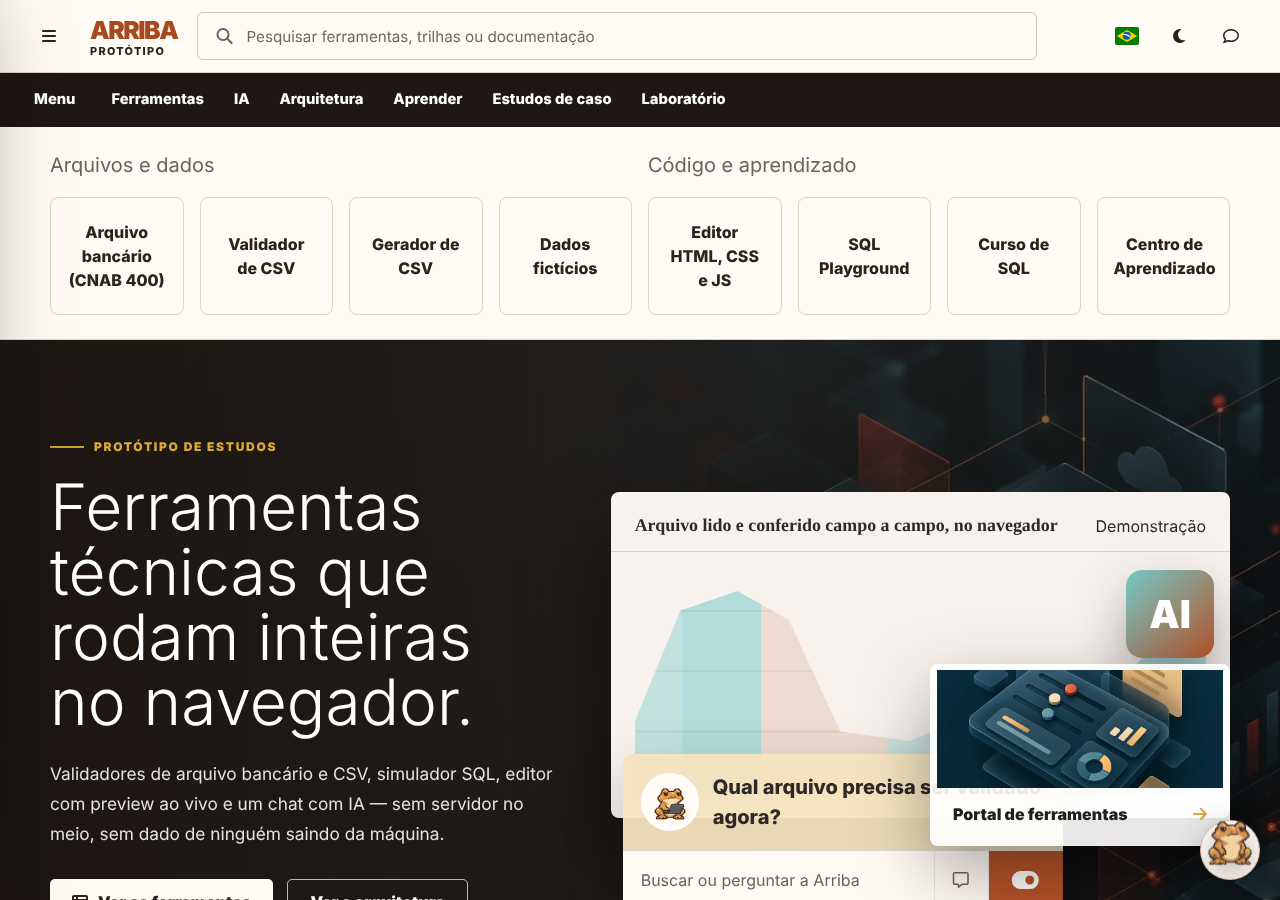
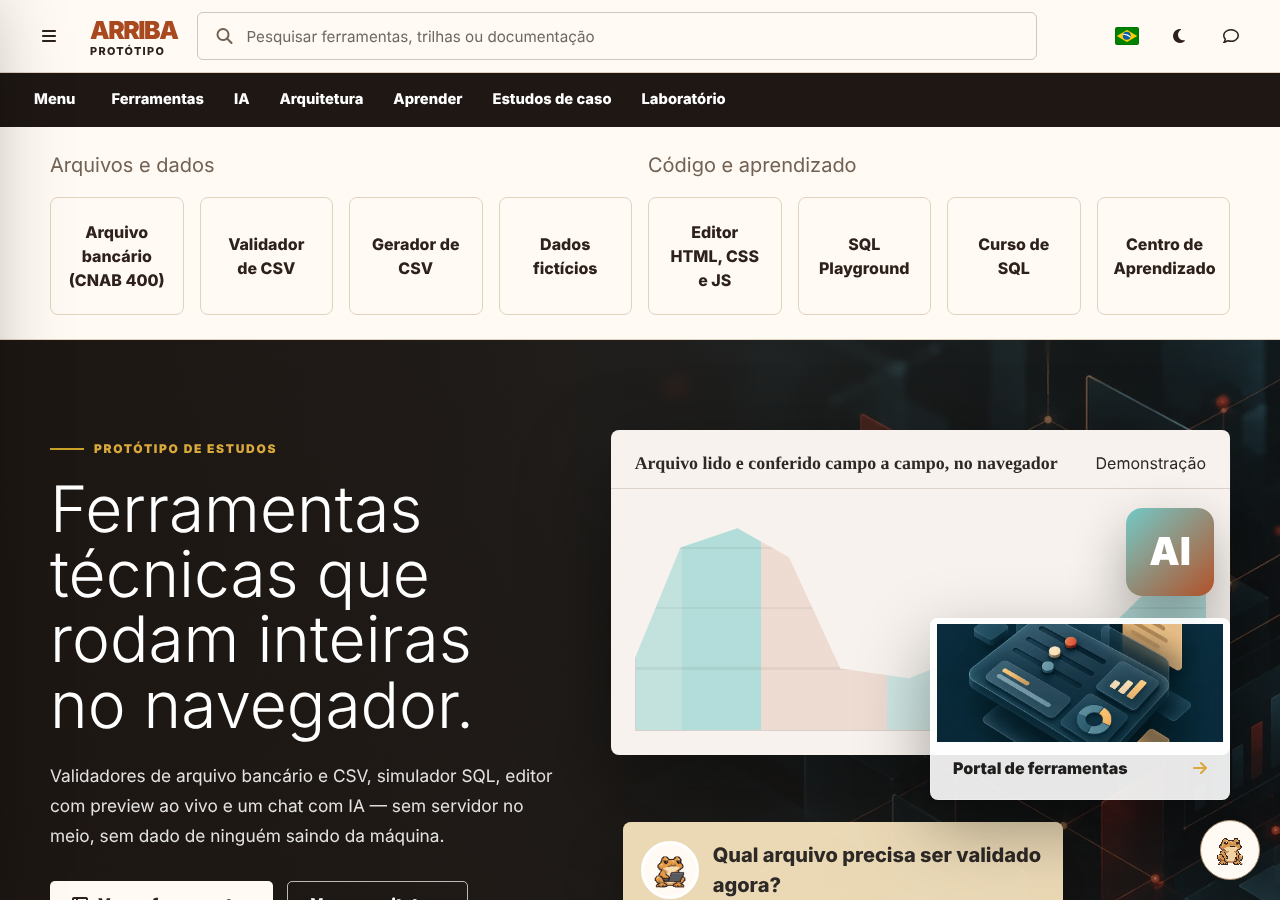
fix(site): cartão do topo não cobre a pergunta; documentação do layout CSV; .env.example dos apps
- Home: o cartão "Portal de ferramentas" ficava sobre "Qual arquivo
  precisa ser validado agora?" — a vitrine tem ~620 px e os dois cartões
  lado a lado pediam 740. A capa ganhou faixa própria entre o selo "AI"
  e a pergunta. Conferido em 13 larguras (1920 a 390) por sobreposição
  de caixas; docs/preview.png refeito.
- Gerador de CSV: o botão "Documentação do layout padrão" apontava para
  um arquivo inexistente. A página voltou, montada a partir de
  layouts-csv.js — a mesma fonte do gerador e do validador, sem cópia
  escrita à mão para desatualizar.
- apps/: o .gitignore (.env.*) escondia o .env.example que os READMEs
  mandam copiar. Agora vai para o git, com nomes e sem segredo.

Claude-Session: https://claude.ai/code/session_01XAkq82dAvVdYRo1mGpRv8s

diff --git a/tools/cobranca/arriba-csv-generator/docs/layout-padrao.html b/tools/cobranca/arriba-csv-generator/docs/layout-padrao.html
@@ -1,0 +1,114 @@
+<!DOCTYPE html>
+<html lang="pt-BR">
+
+<head>
+  <meta charset="UTF-8" />
+  <meta name="viewport" content="width=device-width, initial-scale=1.0" />
+  <title>Layout padrão dos arquivos CSV - Arriba Platform</title>
+  <link rel="icon" href="/assets/icons/favicon.ico" type="image/x-icon" />
+  <link rel="stylesheet" href="../../../../assets/css/tokens.css">
+  <style>
+    * { box-sizing: border-box; }
+    html, body { width: 100%; max-width: 100%; overflow-x: hidden; }
+    body { margin: 0; background: var(--bg); color: var(--ink); font-family: system-ui, -apple-system, BlinkMacSystemFont, "Segoe UI", sans-serif; }
+
+    .topbar { min-height: 64px; background: var(--surface); border-bottom: 1px solid var(--line); display: flex; align-items: center; gap: 22px; padding: 0 28px; position: sticky; top: 0; z-index: 30; }
+    .brand { color: var(--red); font-size: 1.35rem; font-weight: 900; text-decoration: none; letter-spacing: -.04em; }
+    .back-link { color: var(--ink); font-weight: 800; text-decoration: none; font-size: .95rem; }
+
+    .hero { border-bottom: 1px solid var(--line); padding: 40px 0 28px; }
+    .container-page { width: min(1100px, calc(100% - 32px)); margin-inline: auto; }
+    .kicker { color: var(--rw-red-ink); text-transform: uppercase; letter-spacing: .18em; font-weight: 900; font-size: .78rem; display: inline-block; margin-bottom: 12px; }
+    h1 { font-size: clamp(2rem, 5vw, 3.2rem); line-height: .98; letter-spacing: -.06em; font-weight: 300; margin: 0 0 14px; }
+    .hero p { color: var(--muted); line-height: 1.6; max-width: 820px; margin: 0 0 8px; }
+    .hero a, .nota a { color: var(--rw-red-ink); }
+
+    .section { padding: 22px 0 50px; display: grid; gap: 16px; }
+    .indice { display: flex; flex-wrap: wrap; gap: 6px; }
+    .indice a { border: 1px solid var(--line-strong); border-radius: 999px; padding: 5px 12px; font-size: .84rem; font-weight: 800; color: var(--ink); text-decoration: none; background: var(--surface); }
+    .indice a:hover { border-color: var(--red); }
+    a:focus-visible { outline: 3px solid var(--red); outline-offset: 2px; }
+
+    .panel { background: var(--surface); border: 1px solid var(--line); border-radius: var(--radius); box-shadow: var(--shadow); padding: 18px 20px; min-width: 0; scroll-margin-top: 80px; }
+    .panel h2 { font-size: 1.15rem; margin: 0 0 4px; }
+    .meta { color: var(--muted); font-size: .88rem; margin: 0 0 12px; }
+    code { color: var(--rw-red-ink); }
+    .tabela-wrap { overflow-x: auto; }
+    table { width: 100%; border-collapse: collapse; font-size: .9rem; }
+    th, td { text-align: left; padding: 6px 8px; border-bottom: 1px solid var(--line); vertical-align: top; }
+    th { color: var(--muted); font-size: .74rem; text-transform: uppercase; letter-spacing: .06em; }
+    td.pos { width: 3.5em; color: var(--muted); font-variant-numeric: tabular-nums; }
+    td.col { font-family: Consolas, Monaco, monospace; font-size: .84rem; }
+
+    .nota { border-left: 4px solid var(--gold); background: var(--surface-soft); padding: 12px 14px; border-radius: 7px; font-size: .9rem; line-height: 1.6; }
+    @media (max-width: 700px) { .topbar { padding: 0 16px; gap: 14px; } }
+  </style>
+</head>
+
+<body>
+  <header class="topbar">
+    <a href="../../../../index.html" class="brand">ARRIBA</a>
+    <a href="../csv-template-generator.html" class="back-link">← Voltar para o Gerador de CSV</a>
+  </header>
+
+  <section class="hero">
+    <div class="container-page">
+      <span class="kicker">Documentação · gerada da fonte</span>
+      <h1>Layout padrão dos arquivos CSV</h1>
+      <p>
+        Cada arquivo do modelo de dados, com as colunas na ordem em que aparecem. Separador
+        <code>;</code>, codificação UTF-8 com BOM, cabeçalho na primeira linha. A primeira coluna,
+        <code>Tipo_Registro</code>, diz qual é o arquivo — é por ela que o
+        <a href="../../../dados/csv-validator/csv-validator.html">Validador de CSV</a> reconhece um arquivo solto.
+      </p>
+    </div>
+  </section>
+
+  <main class="container-page section">
+    <nav class="indice" aria-label="Arquivos do layout" id="indice"></nav>
+    <div id="layouts" class="section" style="padding:0"></div>
+    <p class="nota">
+      Esta página é montada a partir de <code>layouts-csv.js</code>, a mesma fonte que o Gerador e o
+      Validador usam. Coluna que entra ou sai do modelo aparece aqui sozinha — não há uma cópia
+      escrita à mão para ficar desatualizada.
+    </p>
+  </main>
+
+  <script type="module">
+    import { CSV_LAYOUTS, LAYOUT_KEYS } from "../layouts-csv.js";
+
+    const el = (tag, props = {}, filhos = []) => {
+      const no = document.createElement(tag);
+      Object.entries(props).forEach(([k, v]) => {
+        if (k === "texto") no.textContent = v; else if (k === "classe") no.className = v; else no.setAttribute(k, v);
+      });
+      [].concat(filhos).forEach((f) => no.append(f));
+      return no;
+    };
+
+    const chaves = LAYOUT_KEYS.filter((k) => CSV_LAYOUTS[k]);
+    document.getElementById("indice").append(...chaves.map((k) =>
+      el("a", { href: `#layout-${k}`, texto: CSV_LAYOUTS[k].label })));
+
+    document.getElementById("layouts").append(...chaves.map((k) => {
+      const l = CSV_LAYOUTS[k];
+      return el("section", { classe: "panel", id: `layout-${k}`, "aria-labelledby": `titulo-${k}` }, [
+        el("h2", { id: `titulo-${k}`, texto: l.label }),
+        el("p", { classe: "meta" }, [
+          el("code", { texto: l.filename }),
+          document.createTextNode(` · Tipo_Registro = ${l.tipoRegistro} · ${l.headers.length} colunas`)
+        ]),
+        el("div", { classe: "tabela-wrap" }, el("table", {}, [
+          el("thead", {}, el("tr", {}, [el("th", { scope: "col", texto: "#" }), el("th", { scope: "col", texto: "Coluna" })])),
+          el("tbody", {}, l.headers.map((h, i) => el("tr", {}, [el("td", { classe: "pos", texto: String(i + 1) }), el("td", { classe: "col", texto: h })])))
+        ]))
+      ]);
+    }));
+  </script>
+  <script type="module">
+    import { initThemeToggle } from "../../../../assets/js/theme.js";
+    initThemeToggle();
+  </script>
+</body>
+
+</html>

diff --git a/index.html b/index.html
@@ -369,9 +369,17 @@
             color: #fff;
         }
 
+        /* Vitrine com três peças sobrepostas: o painel em cima, o cartão da
+           pergunta embaixo à esquerda e o cartão de capa à direita. A capa
+           fica numa FAIXA PRÓPRIA, entre o selo "AI" e o cartão da pergunta:
+           a vitrine tem ~620 px e os dois cartões lado a lado pediriam 740,
+           então quando os dois ficavam no rodapé a capa cobria a pergunta.
+           Altura e posição andam juntas (--vitrine-altura, --capa-base). */
         .ai-showcase {
+            --vitrine-altura: 560px;
+            --capa-base: 190px;   /* acima do cartão da pergunta (~160 px + folga) */
             position: relative;
-            min-height: 430px;
+            min-height: var(--vitrine-altura);
             cursor: pointer;
             outline: none;
         }
@@ -492,7 +500,7 @@
         .hero-cover-card {
             position: absolute;
             right: 0;
-            bottom: 76px;
+            bottom: var(--capa-base);
             width: min(300px, 42vw);
             min-height: 182px;
             border: 1px solid rgba(255, 255, 255, .26);
@@ -913,13 +921,8 @@
                 grid-template-columns: 1fr;
             }
 
-            .ai-showcase {
-                min-height: 420px;
-            }
-
             .hero-cover-card {
                 right: 18px;
-                bottom: 34px;
                 width: min(280px, 52vw);
             }
         }

diff --git a/tools/cobranca/arriba-csv-generator/csv-template-generator.html b/tools/cobranca/arriba-csv-generator/csv-template-generator.html
@@ -803,7 +803,7 @@ select.required-missing {
         o restante fica recolhido em campos avançados.
       </p>
 <div class="help-action-row">
-  <a class="doc-link-button" href="docs/layout-padrao.html" target="_blank" rel="noopener">📘 Documentação do layout padrão</a>
+  <a class="doc-link-button" href="docs/layout-padrao.html">📘 Documentação do layout padrão</a>
   <button type="button" class="help-button" aria-label="Ajuda sobre o layout">❔ Ajuda
     <span class="help-tooltip"><strong>Como preencher?</strong> Comece pelos dados obrigatórios. Os campos avançados ficam recolhidos para evitar ruído. O preview mostra o CSV final antes do download.</span>
   </button>

diff --git a/tasks/bugs.md b/tasks/bugs.md
@@ -2,23 +2,6 @@
 
 Defeitos abertos. Formato em [README.md](README.md).
 
-- [ ] O modelo `.env.example` dos dois apps nunca foi para o GitHub 📅 2026-11-04 🔼 média #area/chat-ia #esforco/p 🤖
-  - Contexto: o `.gitignore` da raiz tem `.env.*`, que também casa com `.env.example`. O
-    README de `apps/arriba-chat-ia` manda `cp .env.example server/.env` — quem clona não tem
-    o arquivo. Vale para `apps/comunicados` também.
-  - Local: `.gitignore:35`; `apps/*/README.md`
-  - Ação: acrescentar `!.env.example` ao `.gitignore` e recriar os dois modelos a partir de
-    `server/src/env.ts` de cada app, só com nomes de variável e valores vazios.
-- [ ] Cartão da vitrine cobre a pergunta no hero da home 📅 2026-11-04 🔽 baixa #area/site #esforco/p 🤖
-  - Contexto: em 1280 px o cartão "Portal de ferramentas" fica por cima de "Qual arquivo
-    precisa ser validado agora?". Aparece no `docs/preview.png` do README.
-  - Local: `index.html`, `.assistant-card` e o cartão de capa do carrossel
-- [ ] Link morto para a documentação do layout no Gerador de CSV 📅 2026-10-02 🔼 média #area/ferramentas #esforco/p 🤖
-  - Contexto: o botão "📘 Documentação do layout padrão" aponta para `docs/layout-padrao.html`,
-    que não existe — a pasta `docs/` dessa ferramenta não existe. Provável remoção na
-    descaracterização sem tirar o botão.
-  - Local: `tools/cobranca/arriba-csv-generator/csv-template-generator.html:806`
-  - Ação: recriar a página ou remover o botão.
 - [ ] Backend externo preso em `source: "local-fallback"` 📅 2026-10-01 🔼 média #area/infra #esforco/m
   - Contexto: as rotas de IA do backend nunca usam o provedor configurado — caem sempre no
     conhecimento local. Suspeita de variável de ambiente ausente no serviço hospedado.

diff --git a/tasks/concluidas.md b/tasks/concluidas.md
@@ -3,6 +3,9 @@
 Histórico append-only. O relato longo de cada entrega está no `CLAUDE.md` (Status por partes);
 aqui fica só o registro com data.
 
+- [x] Cartão de capa não cobre mais a pergunta no topo da home (faixa própria; conferido em 13 larguras) ✅ 2026-11-06 #area/site
+- [x] Documentação do layout padrão do Gerador de CSV recriada, gerada de `layouts-csv.js` ✅ 2026-11-06 #area/ferramentas
+- [x] `.env.example` dos dois apps no git (`!.env.example` no `.gitignore`) ✅ 2026-11-06 #area/chat-ia
 - [x] Testes automáticos em todo PR: workflow no site (sintaxe, 22 testes da lógica, contraste) e no `arriba-api` (testes e `npm audit`) ✅ 2026-11-06 #area/infra
 - [x] Testes da lógica do site: parser CSV, regras, CNAB 400 (6 layouts, ida e volta) e dados fictícios ✅ 2026-11-06 #area/ferramentas
 - [x] Conferência de contraste com estados abertos (chat, mega-menu, busca) e sem falso alarme de transição ✅ 2026-11-06 #area/site
